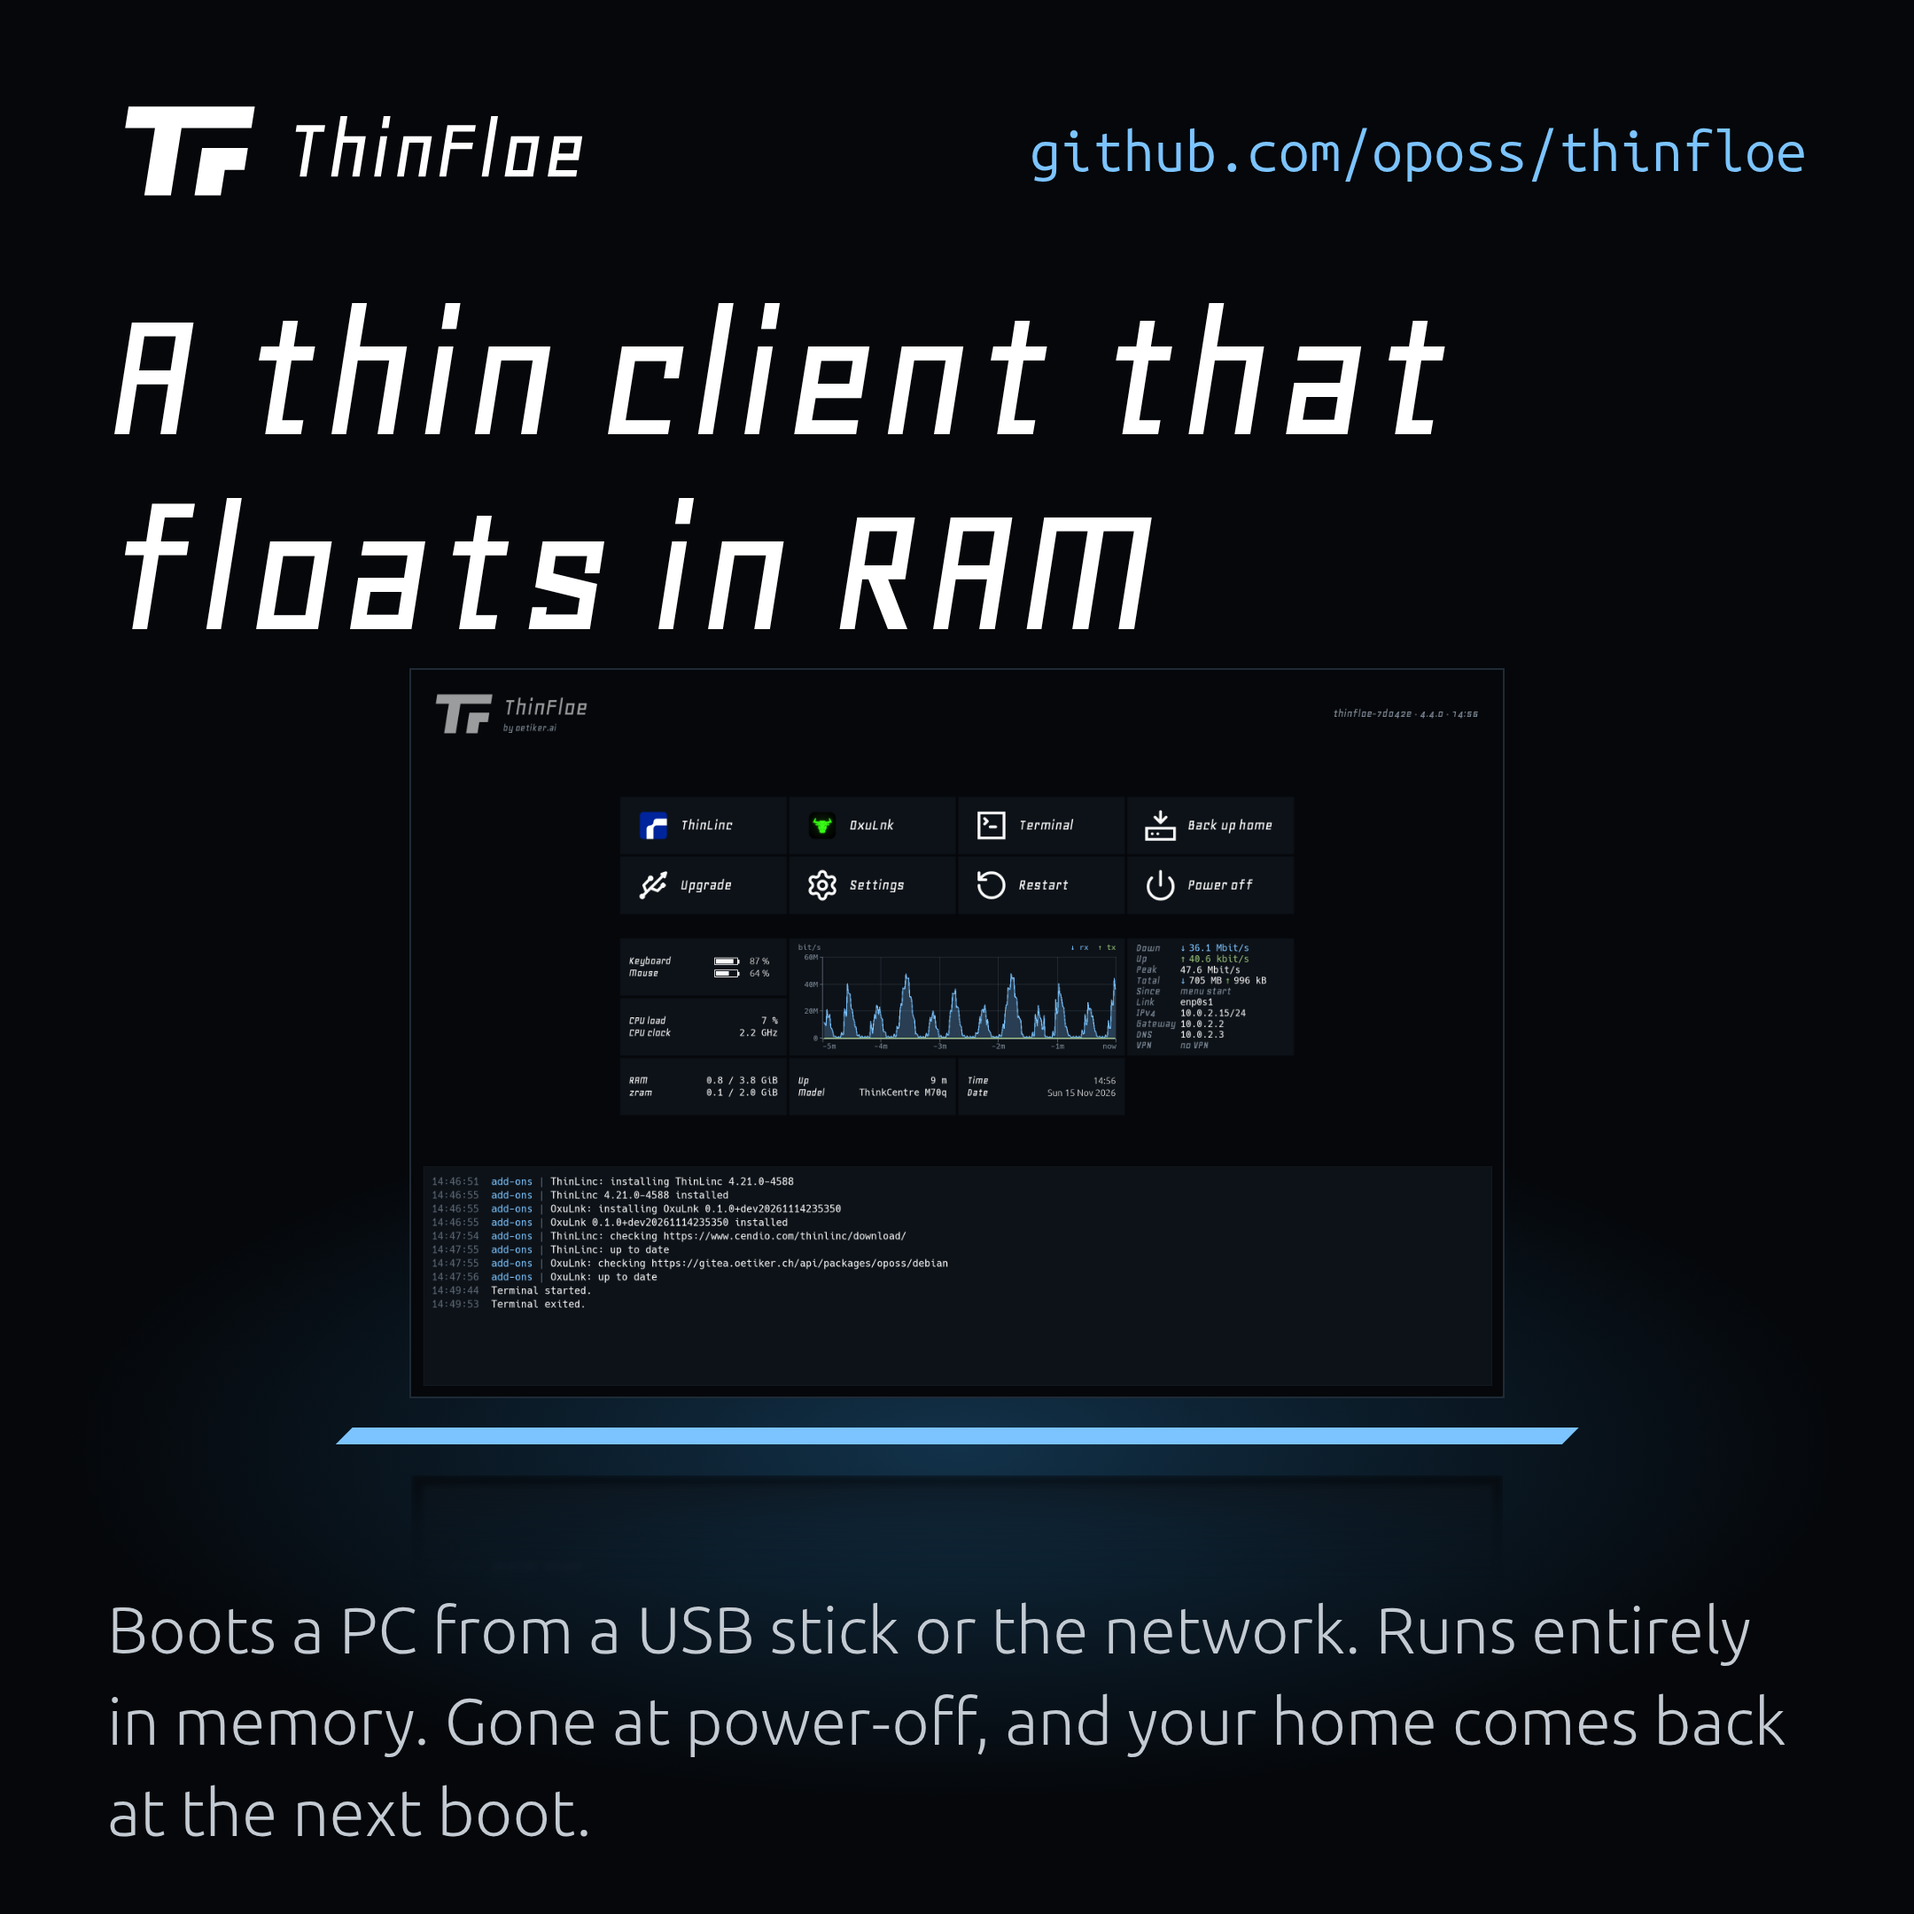
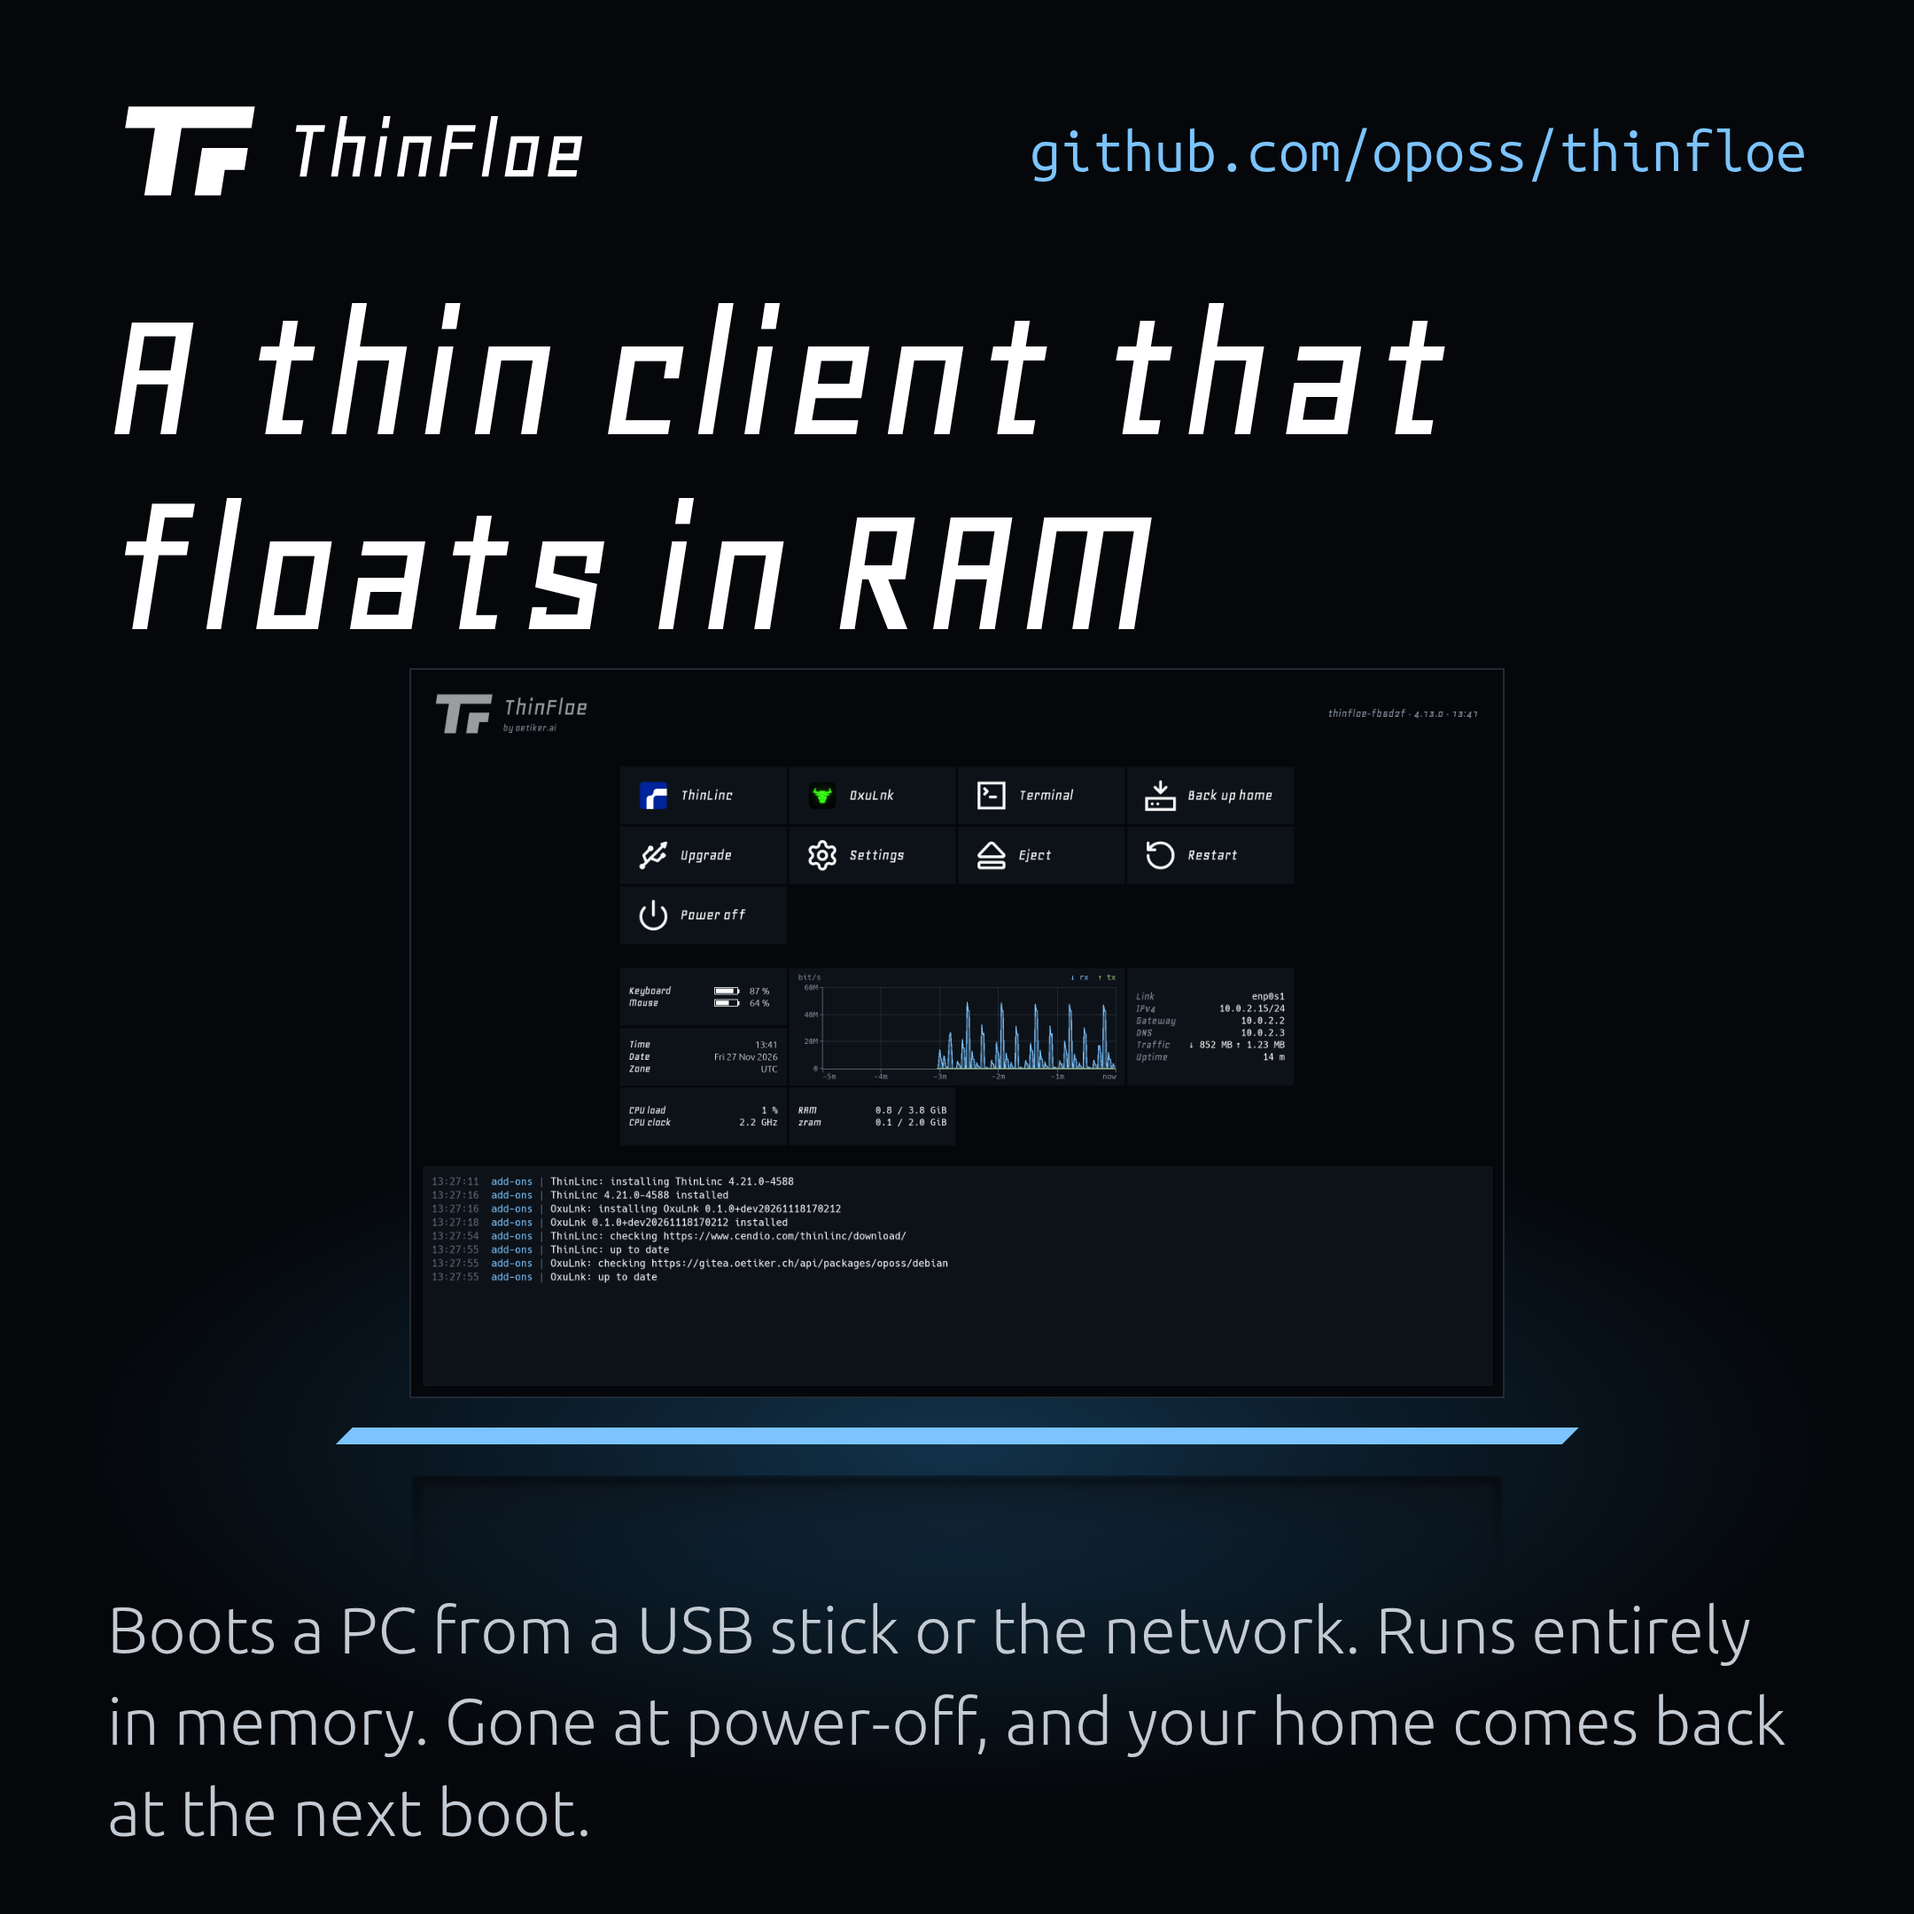
site: the page describes release 4.13.0
The menu, Packages, Sound and Status pictures come from the released
4.13.0 stick image in the VM, made as site/README.md says; the menu
shows the new eject symbol on the Eject tile, and the ads and the social
preview are made again from it. Keyboard came out byte for byte as
before. Network and Screen from the shot test on the v4.13.0 source are
identical to the current files and stay.

The page says that the Upgrade tile shows a new release and that
FloeDrop takes a USB WiFi stick first; the Sound alt text gives 66 %.

README: two traps of this run. After five idle minutes the screen goes
dark and the next click wakes it and lands on a tile (OxuLnk, Terminal
and Back up home started that way), so the pointer moves while waiting.
After `systemctl restart getty@tty1` with "Set the volume on this
machine" already on, the Sound tab says "The volume is not known yet"
although the OSD runs; switching it off and on again recovers.

diff --git a/site/index.html b/site/index.html
@@ -134,7 +134,7 @@ if (/[?&]still\b/.test(location.search)) document.documentElement.classList.add(
       </figure>
       <figure class="panel p-sound">
         <img src="img/settings-sound.webp" width="1872" height="858" loading="lazy"
-             alt="The Sound tab: Set the volume on this machine switched on, the volume slider at 64 %, Mute off.">
+             alt="The Sound tab: Set the volume on this machine switched on, the volume slider at 66 %, Mute off.">
         <figcaption><b>Sound</b>A volume slider and a mute switch, for keyboards without volume keys. With the switch off, the remote session sets the loudness.</figcaption>
       </figure>
       <figure class="panel p-status">
@@ -165,7 +165,7 @@ if (/[?&]still\b/.test(location.search)) document.documentElement.classList.add(
       <li>
         <svg viewBox="0 0 24 24" aria-hidden="true"><path d="M3 12a9 9 0 1 0 9-9 9.75 9.75 0 0 0-6.74 2.74L3 8"/><path d="M3 3v5h5"/></svg>
         <h3>Upgrades with a way back</h3>
-        <p>A new release lands beside the running one, checked against its checksums. The previous version stays on the stick and starts from the boot prompt.</p>
+        <p>A new release lands beside the running one, checked against its checksums. The previous version stays on the stick and starts from the boot prompt. The Upgrade tile says when a new release is out.</p>
       </li>
       <li>
         <svg viewBox="0 0 24 24" aria-hidden="true"><path d="M12 2v8"/><path d="m16 6-4 4-4-4"/><rect width="20" height="8" x="2" y="14" rx="2"/><path d="M6 18h.01"/><path d="M10 18h.01"/></svg>
@@ -190,7 +190,7 @@ if (/[?&]still\b/.test(location.search)) document.documentElement.classList.add(
       <li>
         <svg viewBox="0 0 24 24" aria-hidden="true"><rect width="7" height="12" x="2" y="6" rx="1"/><path d="M13 8.32a7.43 7.43 0 0 1 0 7.36"/><path d="M16.46 6.21a11.76 11.76 0 0 1 0 11.58"/><path d="M19.91 4.1a15.91 15.91 0 0 1 .01 15.8"/></svg>
         <h3>FloeDrop: files with iPhones</h3>
-        <p>Send files to iPhones nearby over AirDrop and receive them, through one folder. It needs a spare WiFi card that supports AirDrop; sending also needs Bluetooth.</p>
+        <p>Send files to iPhones nearby over AirDrop and receive them, through one folder. It needs a spare WiFi card that supports AirDrop and takes a USB WiFi stick first; sending also needs Bluetooth.</p>
       </li>
       <li>
         <svg viewBox="0 0 24 24" aria-hidden="true"><path d="M4.037 4.688a.495.495 0 0 1 .651-.651l16 6.5a.5.5 0 0 1-.063.947l-6.124 1.58a2 2 0 0 0-1.438 1.435l-1.579 6.126a.5.5 0 0 1-.947.063z"/></svg>

diff --git a/site/README.md b/site/README.md
@@ -57,12 +57,16 @@ itself is not written) and gives the machine the demo model name
    `raw`, node name `photos`) and `device_add` (driver `usb-storage`,
    drive `photos`). In Settings, Sound, switch on "Set the volume on this
    machine" and set the slider to about two thirds; the Keyboard tab then
-   shows "Volume keys control this machine" on too. Wait five minutes for
-   the graph, park the pointer in the corner
+   shows "Volume keys control this machine" on too. If the Sound tab says
+   "The volume is not known yet" (4.13.0, after a session restart with the
+   switch already on), switch it off and on again. Wait five minutes for
+   the graph, and move the pointer by one pixel every half minute while you
+   wait: after five idle minutes the screen goes dark, and a click then
+   wakes it and lands on a tile. Park the pointer in the corner
    (`qmp.py … move 2879 1919 2880 1920`) and take the shots. The menu
    picture is the whole screen; the Settings pictures are the crop
-   `1872x858+504+432` (for 4.12.0 the Keyboard one has the layout list
-   closed, so the key switches show). WebP lossless (`cwebp -lossless -z 9`);
+   `1872x858+504+432` (the Keyboard one with the layout list closed, so
+   the key switches show). WebP lossless (`cwebp -lossless -z 9`);
    `menu.png` is the same picture with 256 colours (`convert -dither None
    -colors 256 PNG8:`, then `oxipng`).
 3. **Network and Screen tabs** (`img/settings-network.webp`, `-screen`).
